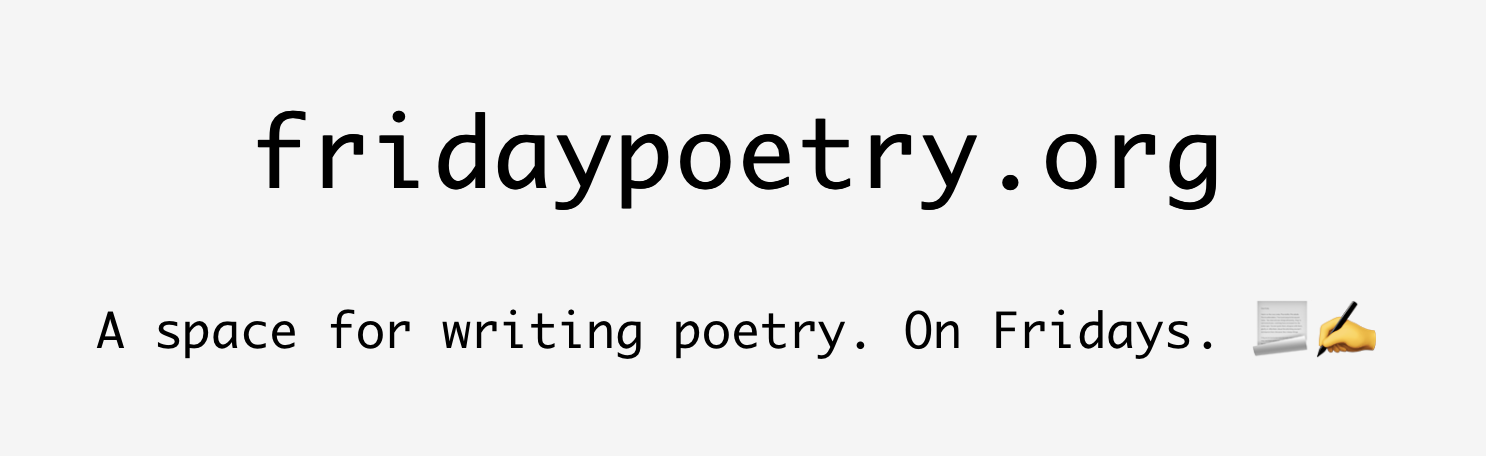
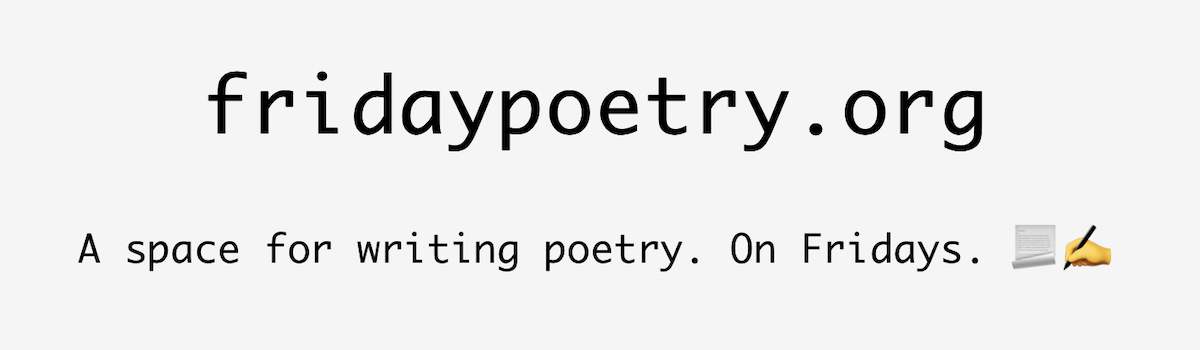
fix: update og_image styles

diff --git a/source/components/html.tsx b/source/components/html.tsx
@@ -34,6 +34,8 @@ export default function Html(props: { route: string; poem?: Poem }) {
           content="For writing poetry. On Friday. 📃✍"
         />
         <meta property="og:image" content="/assets/og_image.png" />
+        <meta property="og:image:width" content="1200">
+        <meta property="og:image:height" content="350">
         <link rel="manifest" href="/manifest.json" />
         <link rel="stylesheet" type="text/css" href="/index.css" />
         <link rel="shortcut icon" href="/assets/favicon.ico" />
